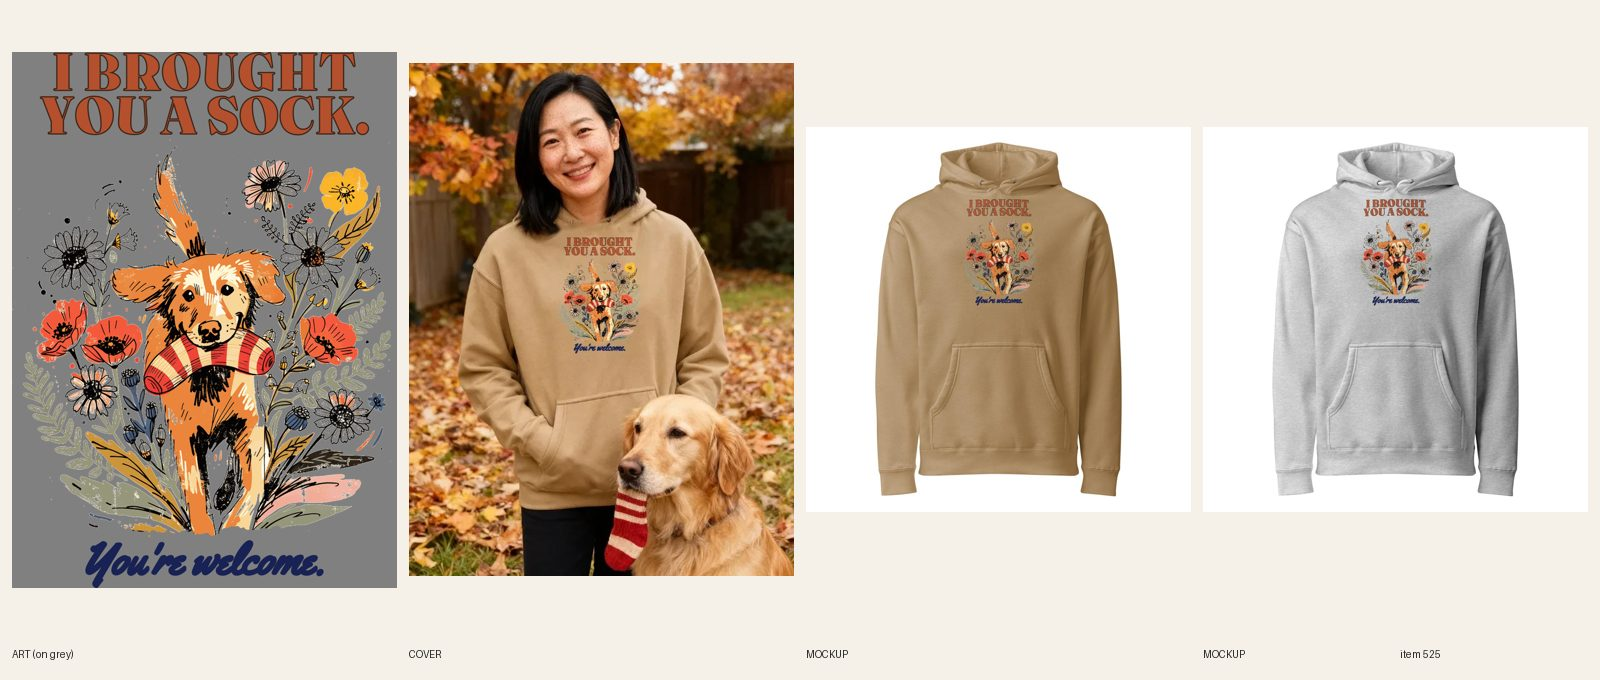
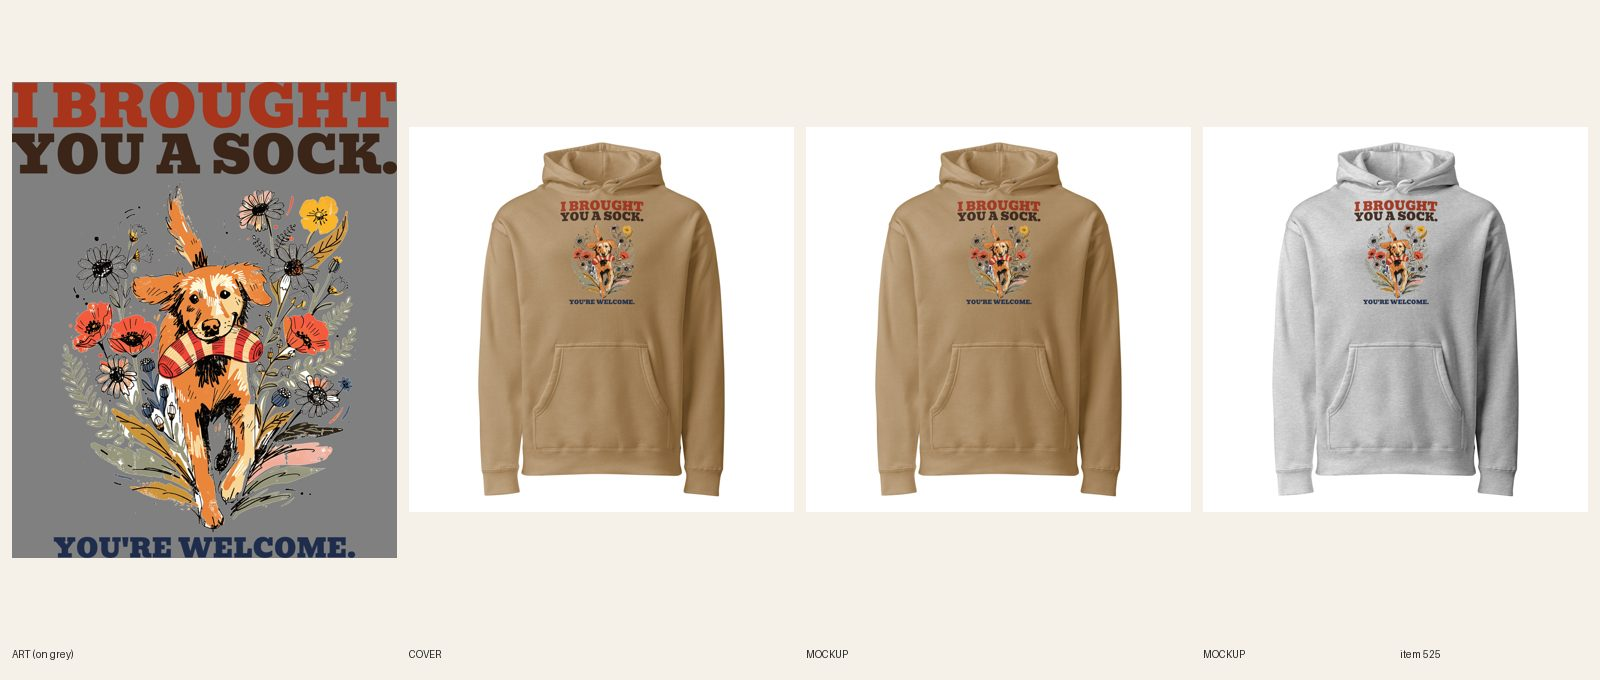
[C] review 525 I Brought You a Sock hoodie (type redo)
Claude-Session: https://claude.ai/code/session_015SgLXT5PEy8A7r5ifrBYio

Changed region(s): [[0.0, 0.0618, 0.5, 0.8647], [0.8438, 0.2779, 0.9062, 0.4632], [0.5938, 0.2779, 0.6562, 0.4632]]

diff --git a/docs/pipeline/525-heavyweight-hoodie-i-brought-you-a-sock.md b/docs/pipeline/525-heavyweight-hoodie-i-brought-you-a-sock.md
@@ -1,4 +1,4 @@
-status: BUILDING [C] 2026-10-19 19:52
+status: REVIEW
 lane: C
 type: twin
 id: 525
@@ -30,3 +30,4 @@ kd: 58
 - 2026-10-18 05:12 UTC builder [C]: Sync 14/14 relinked to file 1088690773. REVIEW. Sheet docs/review/525.jpg.
 - 2026-10-18 05:21 UTC director: LIVE. Sheet reviewed (R3/R4/R5/R6/R8/R13.3 pass); Printful file checked on every variant; ACTIVE + Online Store/Headless/Google & YouTube; cohesion-audit --handle PASS (0 warn). Copy: You're welcome. now described as below the dog (was lower right).
 - 2026-10-18 17:22 UTC director: QUALITY RESET grade B (type only), REDO. The product stays ACTIVE (same handle, URL, title keyword). Keep the line "I BROUGHT YOU A SOCK. / You're welcome." and the art. 1. Type: line lands with the dog; "You're welcome." is a navy script, too light on mid colors. 2. Quality reset type bar (docs/backlog/quality-reset.md, 'The new bar'): headline at least 90% of the art width, heavy, colors pulled from the art; second line at least 45% of the headline's height, never a thin script on a dark or mid garment; use the lettering as a shape (arch, stacked lockup, words breaking into the art), not a plain bar above and a script line below; no font used on more than 1 in 6 of the last 30 designs. 3. New print file means a new cover per R6.10 and a fresh review sheet (R7.7). While quality-reset.md says PAUSED, only lane A builds, and only the samples step 2 names.
+- 2026-10-19 20:01 UTC builder [C]: REDO 525 type only (B grade, twin of #512). Ported #512's approved print (designs/c525/print.png = designs/b/gr-print.png, 3285x4065, ratio 1.24): I BROUGHT (Bevan rust) / YOU A SOCK. (Bevan dark brown) stacked full width, YOU'RE WELCOME. navy Bevan capitals; same art. R6.2: real-font lines, no ring/arch/panel. FW 1650 TOP 20 (2040 px high, inside the 2100 area, ends above the pouch seam; seen on both mockups). Printful file 1089796245 (docs/print-files/525-i-brought-you-a-sock-heavy.png), relinked 14/14. All inks dark (rust, brown, navy), Sandstone + Grey Heather only, no cream fill so no light file needed (R5.3.8 n/a). 2 fronts replaced in place (fileUpdate, back unchanged). Phone-size read ok: both lines legible on both colors. Copy: lettering sentence and FAQ 4 updated (rust, brown and navy capitals). Plain product shot (handle in retired-covers.json). audit --handle PASS 0 warn, astro build ok. fal $0. Sheet docs/review/525.jpg.

diff --git a/docs/intake-log.md b/docs/intake-log.md
@@ -1,6 +1,6 @@
 RUNNING lane A since 2026-10-19 20:00 UTC
 RUNNING lane B since 2026-10-19 19:57 UTC
-RUNNING lane C since 2026-10-19 19:52 UTC
+2026-10-19 20:01 UTC — [C] Builder run: redid #525 Women's I Brought You a Sock heavyweight hoodie (type only: ported #512's approved Bevan rust/brown stacked lockup + navy YOU'RE WELCOME. capitals, same art, FW 1650 TOP 20, file 1089796245, 14/14 relinked, 2 fronts replaced in place, copy updated, plain product shot). REVIEW. fal $0. Lock released.
 2026-10-19 19:52 UTC — [B] Builder run: redid #522 Gigi crewneck (type only: Bevan hot-pink GIGI full width + Anton navy BECAUSE GRANDMA / SOUNDED OLD., same art, FW 1650, file 1089786616, 12/12 resynced, 2 fronts replaced in place, copy updated, plain product shot). REVIEW. fal $0. Lock released.
 2026-10-19 19:44 UTC — [H] Helper run: Telegram inbox empty (getUpdates returned 0 updates; no pause, resume or TikTok links; nothing to consume). Audit (604 products): 0 errors, 30 warnings left alone (polish); no meta, SEO, collection or price errors to fix; announcement bar unchanged. Category check: 0 products without a category (Shopify query empty, no mutation). Site freshness: unisex-christmas-we-said-no-gifts-graphic-tee, mens-firefighter-yes-one-cat-once-hoodie, womens-nana-mom-said-no-thats-cute-crewneck-sweatshirt all 200. Stuck work: none (#522 BUILDING since 19:40 under 3 hours; lane B lock 19:40 and lane E lock 19:15 both under 2 hours). Daily summary not due (sent 16:05). Lock released.
 2026-10-19 19:48 UTC — [A] Builder run: redid #478 Women's Clocked It tee (type only: Bowlby One cream CLOCKED IT. at full art width + Anton SAID NOTHING. stacked under the same cat linework, FW 1500 (6400 area width), file 1089777092, 36/36 relinked, 6 fronts replaced in place, copy updated, plain product shot). REVIEW. fal $0. Lock released.
